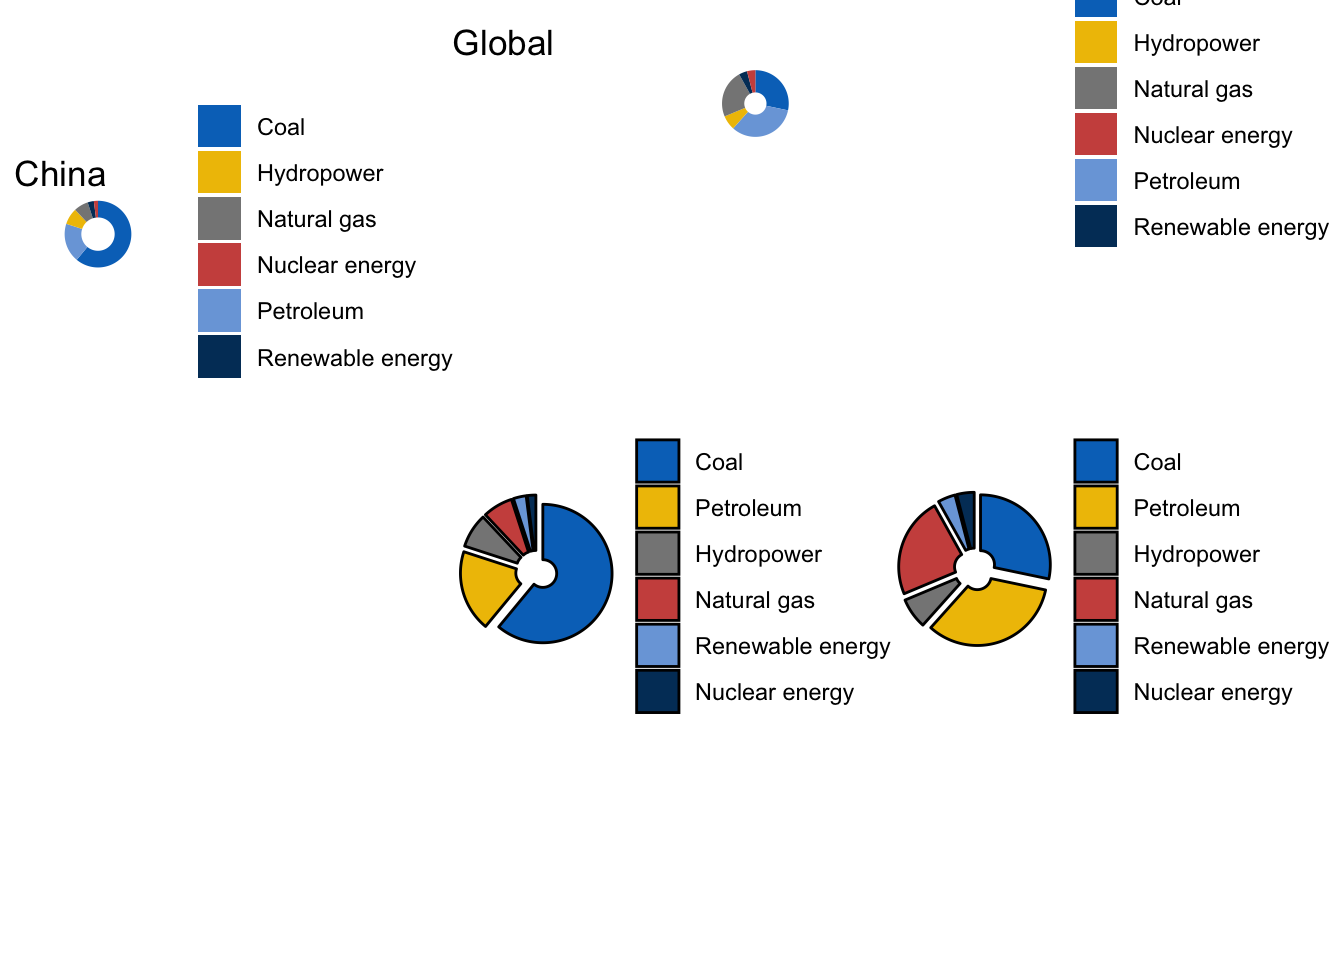
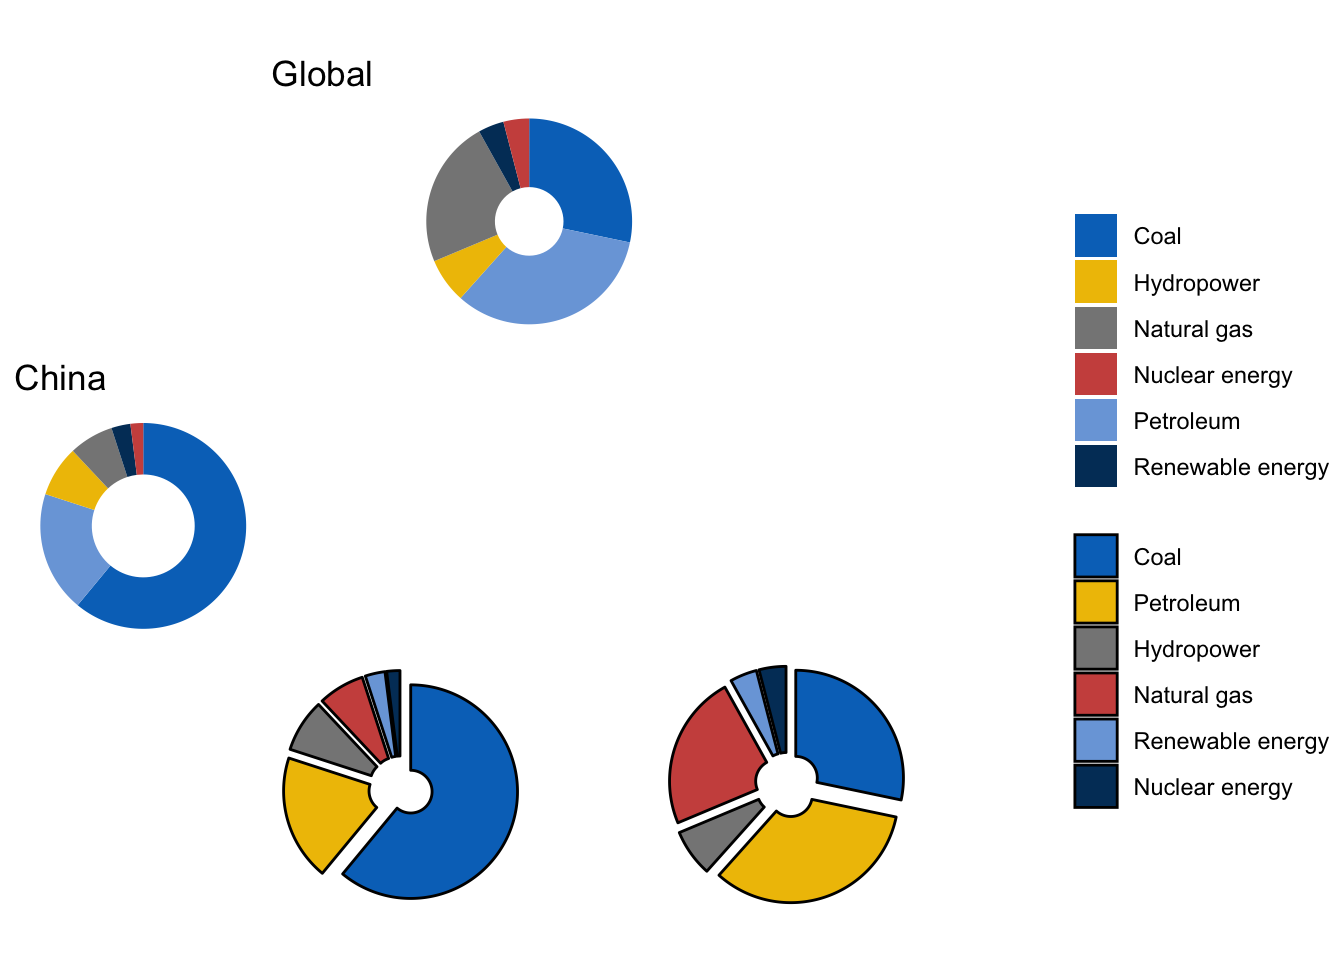
update

diff --git a/content/post/2020-12-05-patchwork/index.zh.html b/content/post/2020-12-05-patchwork/index.zh.html
@@ -86,12 +86,12 @@ energyGlobalExplode</code></pre>
 <p><img src="/post/2020-12-05-patchwork/index.zh_files/figure-html/unnamed-chunk-5-1.png" width="672" /></p>
 <p>超越网格:</p>
 <pre class="r"><code>layout &lt;- &quot;
-##BBBB
-AACCDD
-##CCDD
+#BB#
+A###
+#CDD
 &quot;
 energyChina + energyGlobal + energyChinaExplode + energyGlobalExplode +
-  plot_layout(design = layout)</code></pre>
+  plot_layout(design = layout, guides = &#39;collect&#39;)</code></pre>
 <p><img src="/post/2020-12-05-patchwork/index.zh_files/figure-html/unnamed-chunk-6-1.png" width="672" /></p>
 <p>还可以直接用<code>area</code>来指定在网络中的具体位置:</p>
 <pre class="r"><code>layout &lt;- c(
